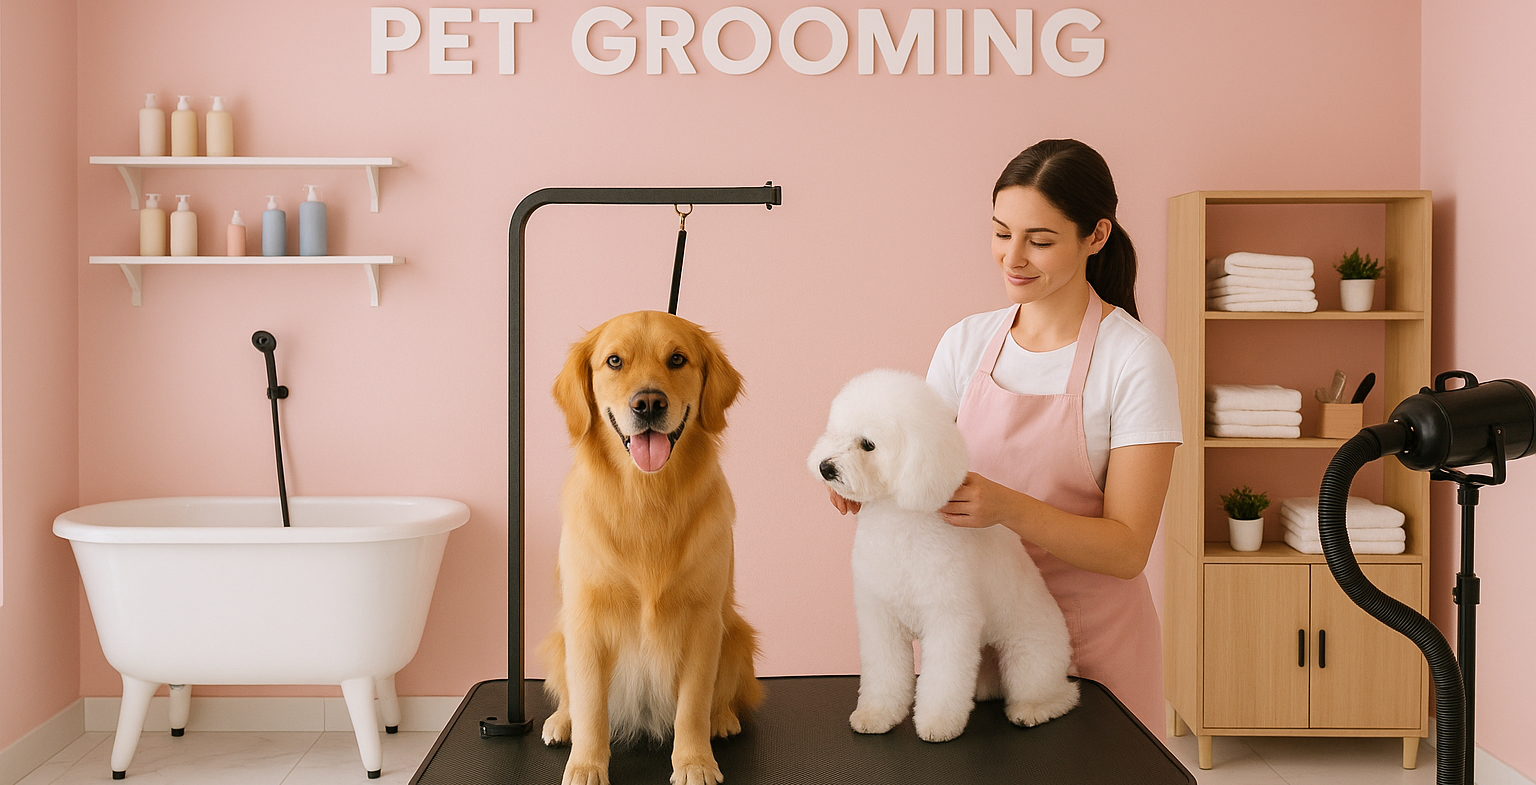
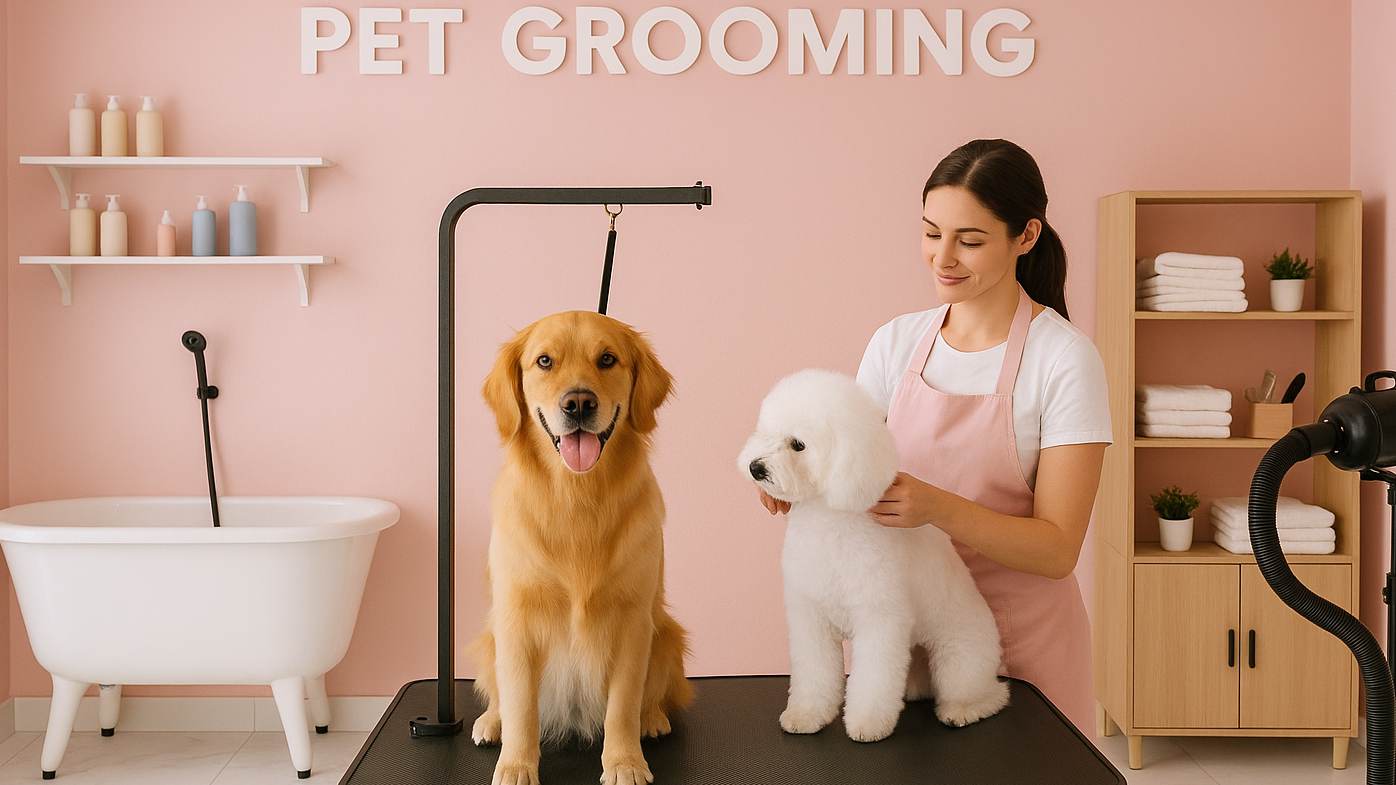
後臺預約刪除位置、修改電話查詢、前台新增幻燈片

diff --git a/前端/paw_shop_vue/src/appointment/pages/AppointmentList.vue b/前端/paw_shop_vue/src/appointment/pages/AppointmentList.vue
@@ -20,28 +20,18 @@
           {{ phoneNumberError }}
         </v-alert>
         <!-- 查詢表單 -->
-        <v-form
-          @submit.prevent="selectAppointmentByPhoneNum"
-          class="d-flex align-items-center"
-        >
-          <label class="me-2">預約電話:</label>
-          <v-text-field
-            v-model="phoneNumber"
-            hide-details
-            dense
-            style="width: 250px"
-            class="me-2"
-          ></v-text-field>
-
-          <v-btn
-            color="primary"
-            :disabled="!phoneNumber"
-            @click="selectAppointmentByPhoneNum"
-            style="height: 40px"
-          >
-            查詢
-          </v-btn>
-        </v-form>
+        <v-form @submit.prevent="selectAppointmentByPhoneNum" class="d-flex align-items-center">
+    <label class="me-2">預約電話:</label>
+    <v-text-field
+      v-model="phoneNumber"
+      hide-details
+      dense
+      style="width: 250px"
+      class="me-2"
+      maxlength="10"
+      type="tel"
+    ></v-text-field>
+  </v-form>
       </div>
 
       <!-- 新增預約 Modal -->
@@ -199,16 +189,14 @@
           {{ getPaymentStatus(item.paymentStatus) }}
         </template>
 
-        <template v-slot:item.actions1="{ item }">
-          <DeleteButton @click="() => showDeleteModal(item.appointmentId)" />
-        </template>
         <template v-slot:item.actions2="{ item }">
           <EditButton @click="() => showUpdateModal(item.appointmentId)" />
         </template>
+        <template v-slot:item.actions1="{ item }">
+          <DeleteButton @click="() => showDeleteModal(item.appointmentId)" />
+        </template>
       </v-data-table>
-      <v-container class="d-flex justify-center">
-        <v-btn @click="goBack" color="grey" class="me-2">返回</v-btn>
-      </v-container>
+      
       <!-- 隱藏欄位用來存 appointmentId -->
       <input type="hidden" id="appointmentIdToDelete" />
       <input type="hidden" id="appointmentIdToUpdate" />
@@ -285,8 +273,8 @@ const headers = [
   { title: "總價格", key: "appointmentTotal" },
   { title: "預約狀態", key: "appointmentStatus" },
   { title: "付款狀態", key: "paymentStatus" },
-  { title: "刪除", key: "actions1", sortable: false },
   { title: "修改", key: "actions2", sortable: false },
+  { title: "刪除", key: "actions1", sortable: false },
 ];
 
 const getAppointmentStatus = (status) => {
@@ -435,37 +423,39 @@ const onDateChange = async () => {
     console.error("無法獲取預約資料: ", error);
   }
 };
-// 電話號碼格式檢查規則
-const phoneNumberRule = (value) => {
-  if (!value) {
-    phoneNumberError.value = "電話號碼為必填項";
-    return false;
-  } else if (!/^\d{10}$/.test(value)) {
-    phoneNumberError.value = "請輸入有效的電話號碼";
-    return false;
-  }
-  phoneNumberError.value = "";
-  return true;
-};
-// 電話查詢
-const selectAppointmentByPhoneNum = async () => {
-  if (!phoneNumberRule(phoneNumber.value)) return;
+async function selectAppointmentByPhoneNum() {
+  console.log('查詢電話：', phoneNumber.value);
+  const data = phoneNumber.value.trim();
 
   try {
-    const data = phoneNumber.value.trim();
     const res = await apiFindAppointment(data);
-
+    console.log('查詢結果:', res);
     if (res && res.data && Array.isArray(res.data)) {
       appointments.value = res.data;
     } else {
       appointments.value = [];
       console.warn("未找到相關預約資料");
     }
-  } catch (error) {
-    console.error("查詢失敗:", error);
-    alert("查詢過程中發生問題，請稍後再試");
+  } catch (err) {
+    console.error('查詢失敗:', err);
   }
-};
+}
+
+// 監聽電話輸入
+watch(phoneNumber, async (newVal) => {
+  if (newVal.length === 10) {
+    await selectAppointmentByPhoneNum();
+  } else if (newVal.length === 0) {
+    try {
+      const res = await apiFindAppointmentAll();
+      appointments.value = res.data;
+      console.log("清空輸入，重新顯示全部資料:", appointments.value);
+    } catch (error) {
+      console.error("重新獲取預約資料失敗:", error);
+    }
+  }
+});
+
 //送出表單
 const submitAppointment = async () => {
   console.log("表單資料:", form.value);

diff --git a/前端/paw_shop_vue/src/appointment/pages/AppointmentFrontPage.vue b/前端/paw_shop_vue/src/appointment/pages/AppointmentFrontPage.vue
@@ -10,7 +10,7 @@
           </div>
         </div>
         <div class="carousel-item">
-          <img src="@/appointment/assets/imags/petgrooming.png" class="d-block w-100" alt="專業服務" />
+          <img src="@/appointment/assets/imags/petgrooming01.png" class="d-block w-100" alt="專業服務" />
           <div class="carousel-caption d-none d-md-block animate__animated animate__fadeInUp">
             
           </div>
@@ -310,14 +310,14 @@ h5 {
 }
 
 .row {
-  flex-wrap: wrap; /* 保證項目能換行並且自適應 */
+  flex-wrap: wrap; 
 }
 .feature-box {
-    border: 2px dashed #28a745; /* 綠色虛線框 */
+    border: 2px dashed #28a745; 
     border-radius: 10px;
     padding: 20px;
     height: 100%;
-    background-color: #fdfdfd; /* 淺背景讓框框更明顯 */
+    background-color: #fdfdfd; 
     box-shadow: 0 2px 8px rgba(0, 0, 0, 0.03);
     transition: transform 0.3s ease;
   }
@@ -375,9 +375,9 @@ h5 {
 .animate-img {
   max-height: 300px;
   object-fit: contain;
-  background: transparent; /* 背景透明 */
-  border: none;            /* 無邊框線條 */
-  box-shadow: none;        /* 無陰影 */
+  background: transparent;
+  border: none;            
+  box-shadow: none;        
 }
 
 .feature-card {
@@ -390,14 +390,14 @@ h5 {
 .info-card {
   position: relative;
   height: 480px;
-  width: 100%;             /* 撐滿父容器 */
-  max-width: 600px;        /* 可選：限制最大寬度 */
+  width: 100%;            
+  max-width: 600px;        
   background: transparent;
   border: none;
   box-shadow: none;
   overflow: hidden;
-  margin: auto;            /* 置中 */
-  font-family: 'Noto Sans TC', sans-serif; /* 清晰中文字體 */
+  margin: auto;          
+  font-family: 'Noto Sans TC', sans-serif; 
 }
 
 .bg-image {
@@ -405,15 +405,15 @@ h5 {
   top: 0;
   left: 0;
   width: 90%;
-  height: auto; /* 確保圖片填滿 div */
-  object-fit: cover; /* 讓圖片保持比例並覆蓋整個容器 */
-  z-index: 0; /* 讓圖片在底層 */
+  height: auto; 
+  object-fit: cover; 
+  z-index: 0; 
 }
 
 .overlay-content {
   position: relative;
   width: 85%;
-  z-index: 1; /* 讓文字位於圖片上方 */
+  z-index: 1;
   padding: 2rem;
   border-radius: 0.5rem;
   text-align: center;
@@ -433,12 +433,12 @@ h5 {
 }
 
 img.space-img {
-  max-width: 100%;        /* 保持響應式 */
-  width: 100%;            /* 填滿欄位 */
-  height: auto;           /* 保持比例 */
-  max-height: 400px;      /* 限制高度，避免太大 */
-  object-fit: cover;      /* 裁切但保留比例 */
-  border-radius: 0.5rem;  /* 圓角美觀 */
+  max-width: 100%;       
+  width: 100%;           
+  height: auto;           
+  max-height: 400px;      
+  object-fit: cover;     
+  border-radius: 0.5rem;  
 }
 
 </style>

diff --git a/前端/paw_shop_vue/src/appointment/pages/AppointmentReserve.vue b/前端/paw_shop_vue/src/appointment/pages/AppointmentReserve.vue
@@ -255,9 +255,16 @@ const submitForm = async () => {
   }
 };
 onMounted(() => {
+  const memberId = localStorage.getItem("memberId");
+  if (!memberId) {
+    router.push("/login");
+    return;
+  }
+  
+  form.value.memberId = memberId;
   fetchPetsByMember();
-  form.value.memberId = localStorage.getItem("memberId");
 });
+
 </script>
 
 <style scoped>
